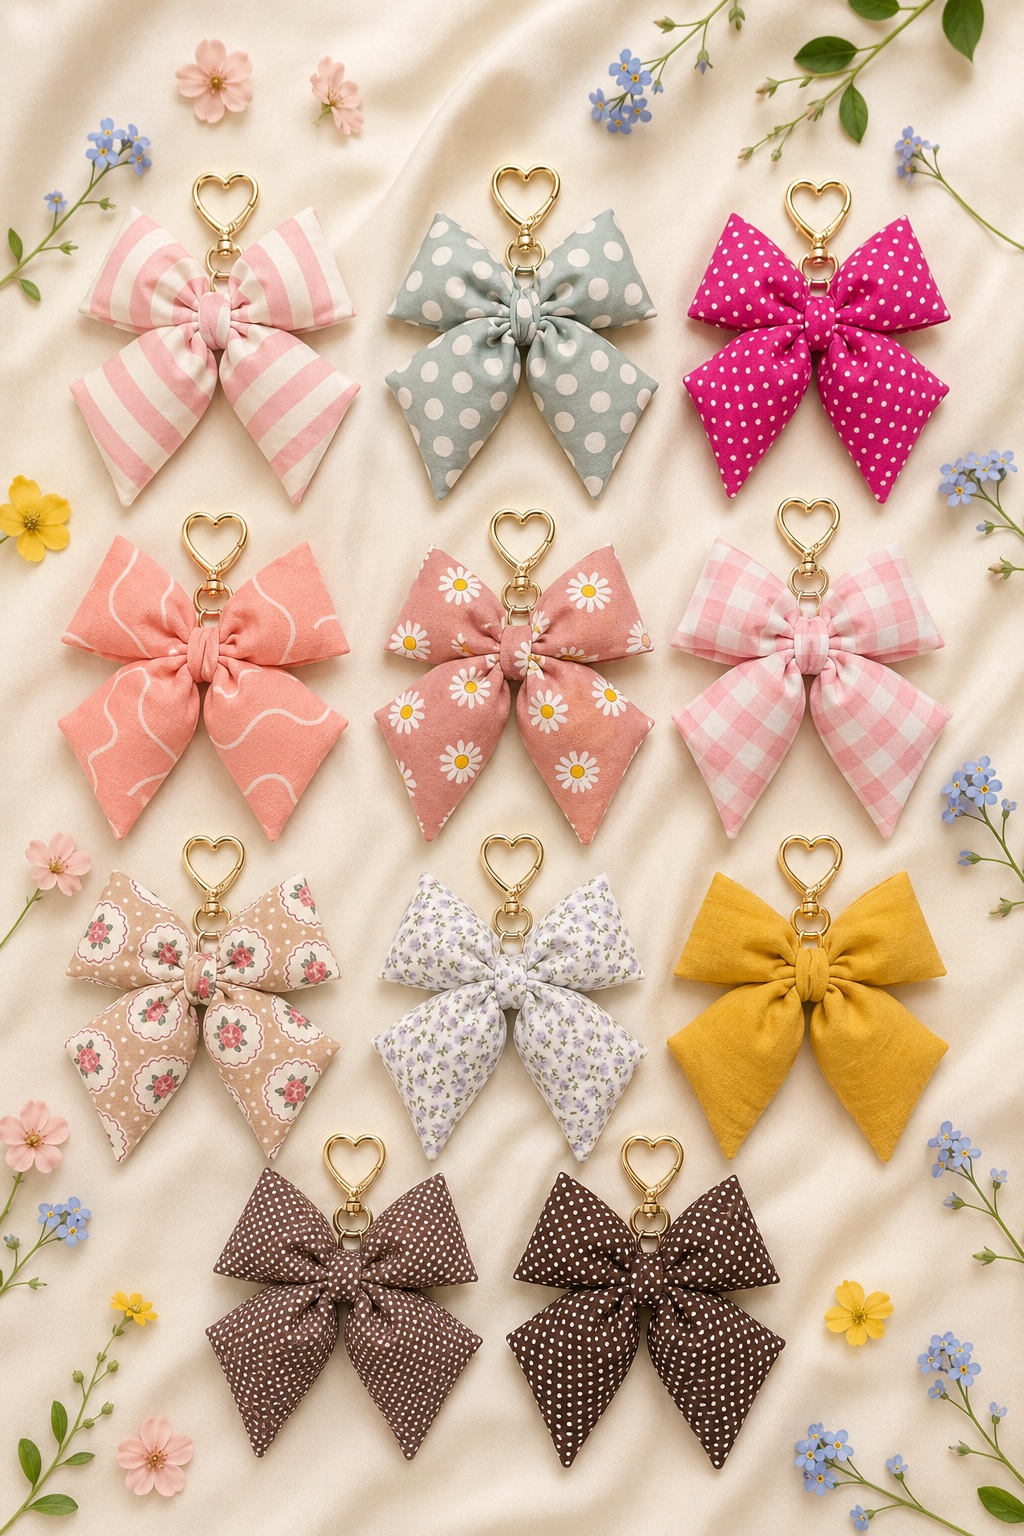
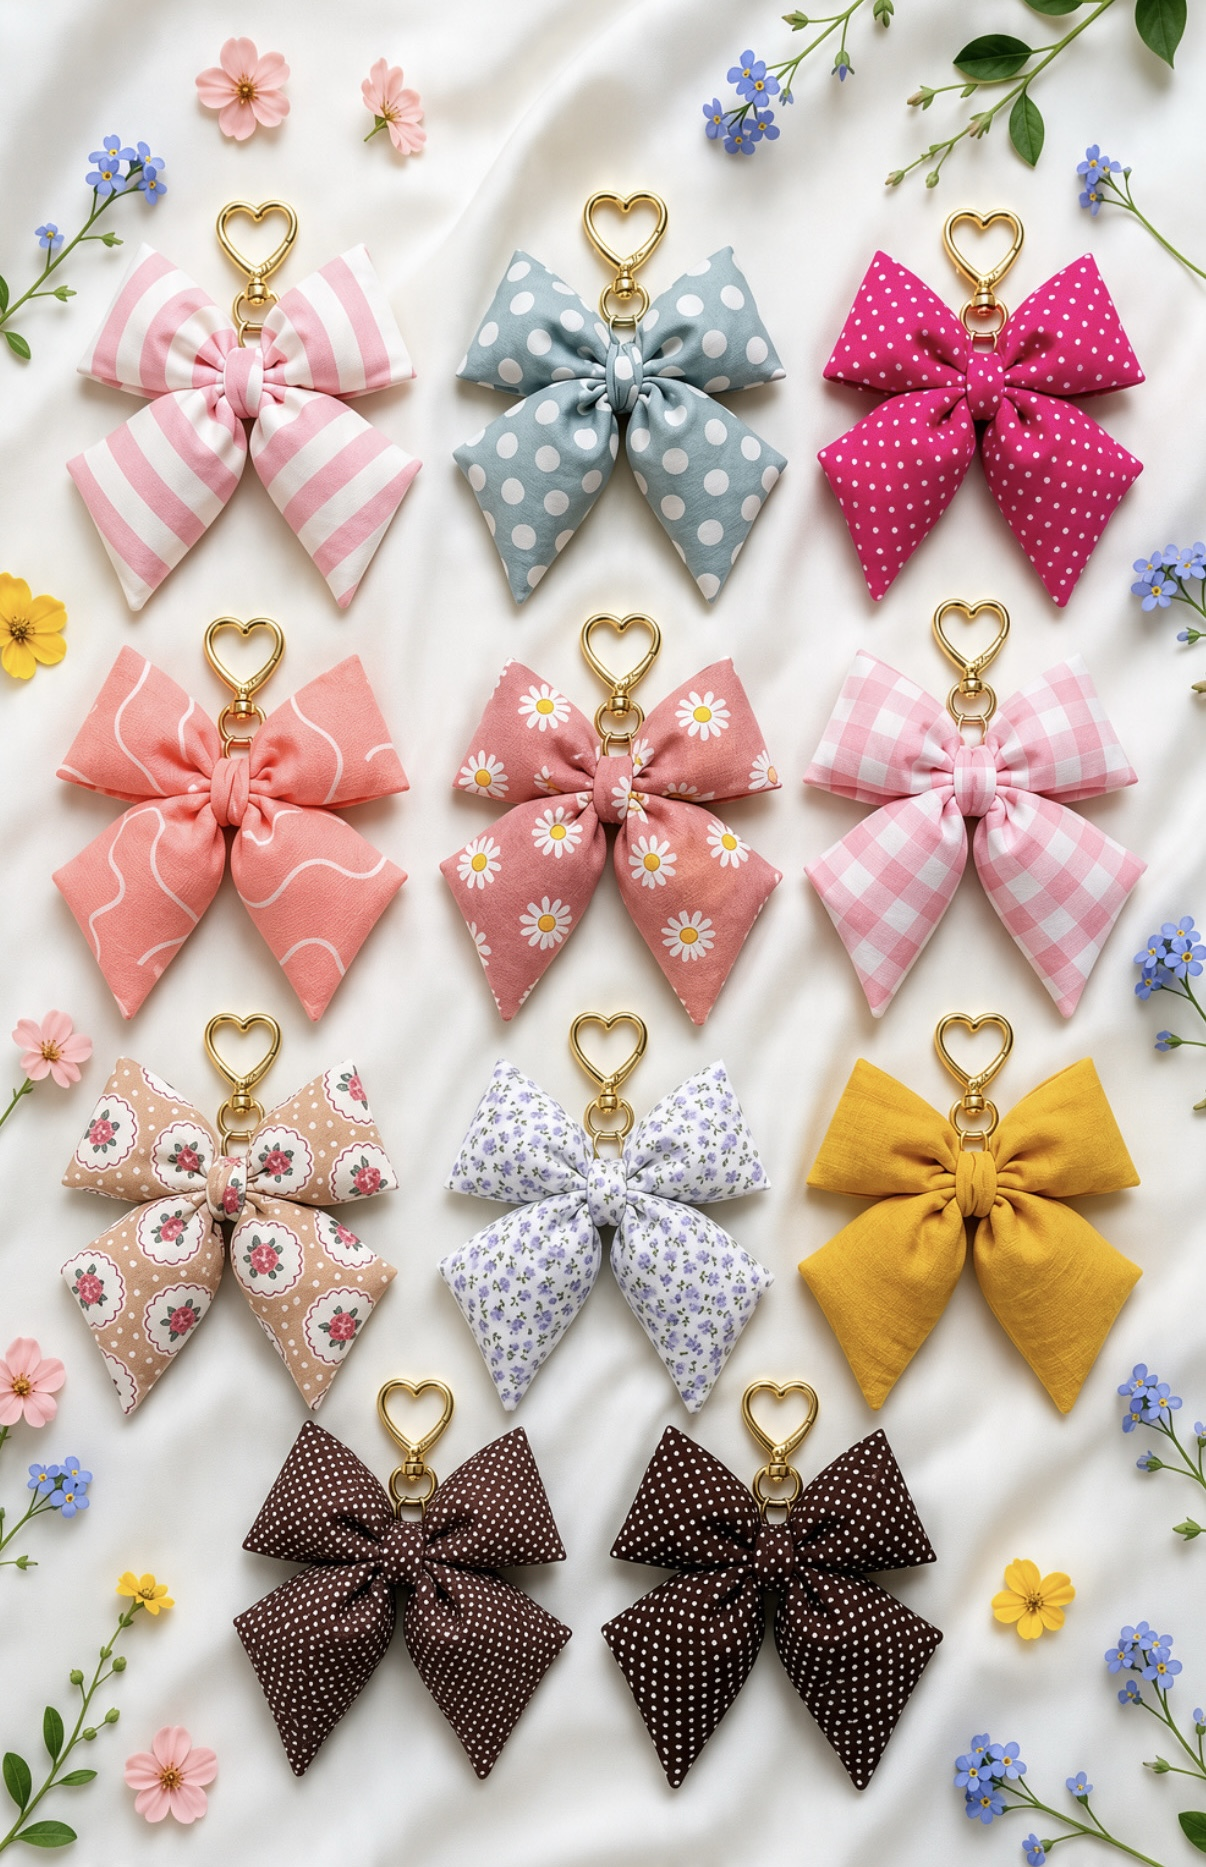
Update memory keepsake details

diff --git a/index.html b/index.html
@@ -8036,7 +8036,7 @@
           <h3 class="product-name">Memória Perfumada</h3>
           <p class="product-desc">Vela em frasco com rolha, criada como lembrança de eventos. Aromas suaves para ficar na memória.</p>
           <div class="product-footer">
-            <span class="product-price">4€/un</span>
+            <span class="product-price">Desde 3,50€/un</span>
             <button type="button" class="product-btn" onclick="openProduct('memoria_perfumada')">Personalizar</button>
           </div>
         </div>
